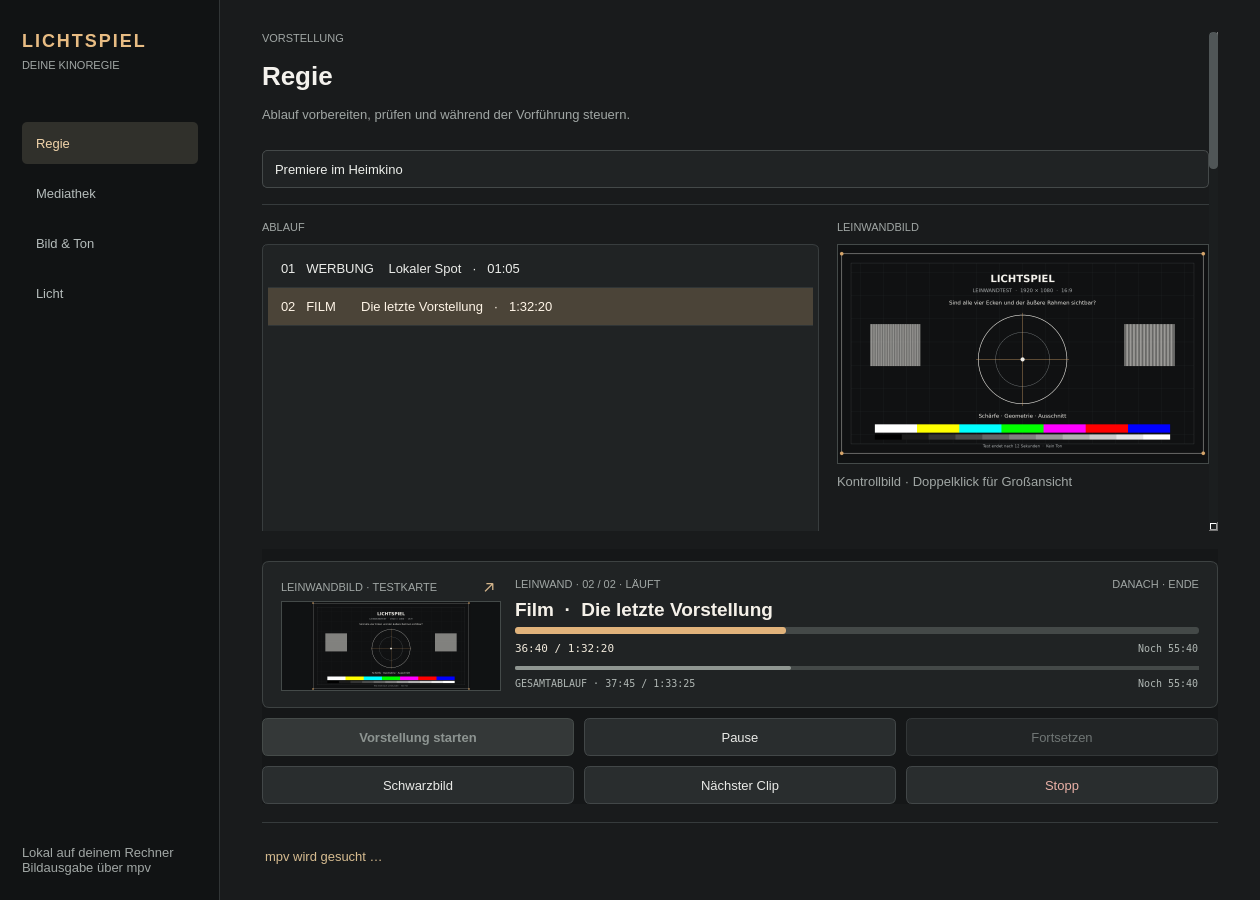
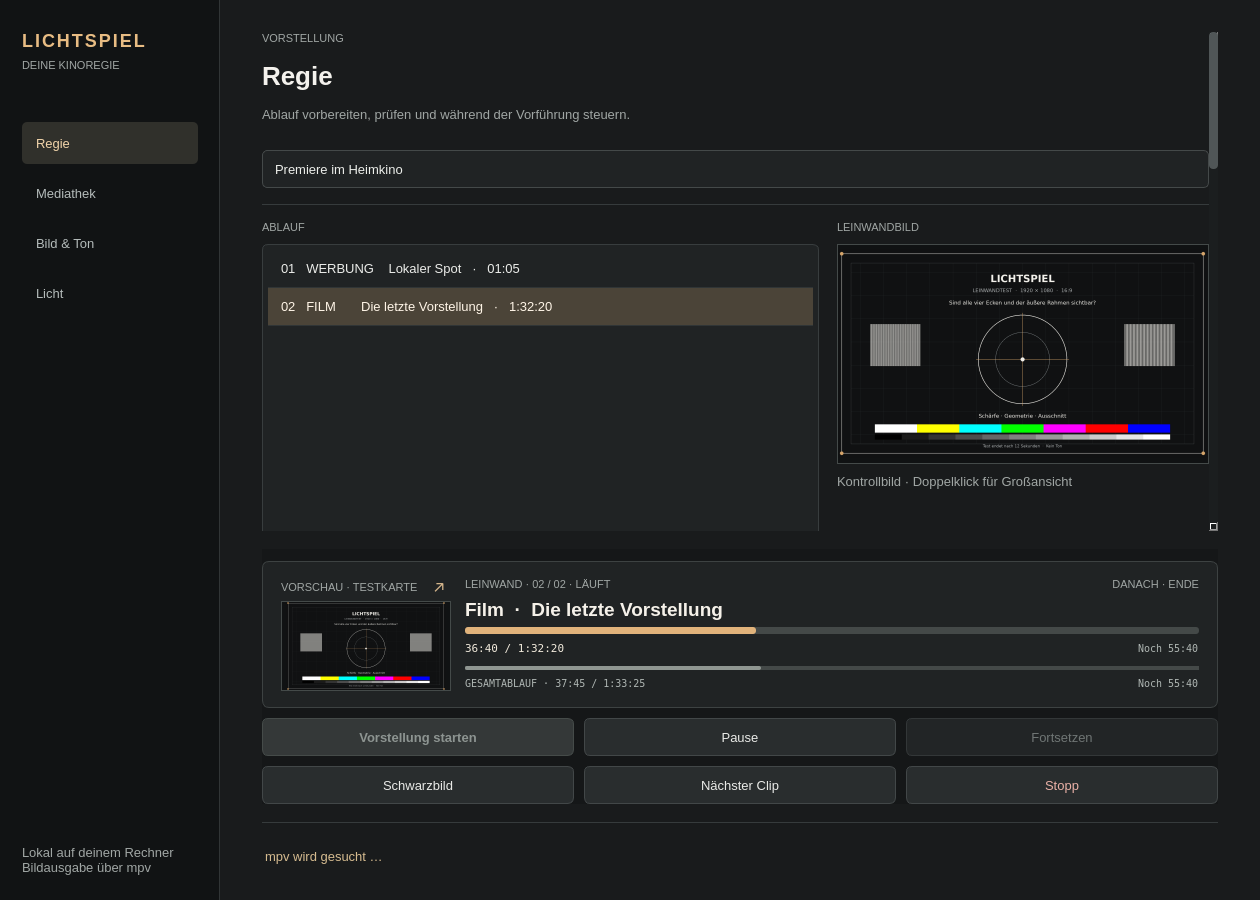
Fit native live preview within Windows minimum window

Changed region(s): [[0.2167, 0.6222, 0.619, 0.7778], [0.4952, 0.7467, 0.5262, 0.7778], [0.2476, 0.6222, 0.2786, 0.6533]]

diff --git a/native/lichtspiel/window.py b/native/lichtspiel/window.py
@@ -353,7 +353,7 @@ class MainWindow(QMainWindow):
         preview_column = QVBoxLayout()
         preview_column.setSpacing(4)
         preview_header = QHBoxLayout()
-        self.preview_caption = label("LEINWANDBILD · VORSCHAU", "eyebrow")
+        self.preview_caption = label("VORSCHAU", "eyebrow")
         self.preview_caption.setWordWrap(False)
         preview_header.addWidget(self.preview_caption)
         preview_header.addStretch()
@@ -364,7 +364,7 @@ class MainWindow(QMainWindow):
         preview_column.addLayout(preview_header)
         self.preview_frame = PreviewFrame()
         self.preview_frame.setFixedHeight(90)
-        self.preview_frame.setMaximumWidth(250)
+        self.preview_frame.setFixedWidth(170)
         self.preview_frame.activated.connect(self._show_preview_dialog)
         preview_column.addWidget(self.preview_frame, 1)
         live.addLayout(preview_column)
@@ -1118,10 +1118,10 @@ class MainWindow(QMainWindow):
             self.preview_timer.start()
             self.preview_frame.show_message("Vorschau wird angefordert …", clear=True)
             self.stage_preview.show_message("Vorschau wird angefordert …", clear=True)
-            self.preview_caption.setText("LEINWANDBILD · VORSCHAU")
+            self.preview_caption.setText("VORSCHAU")
         else:
             self.preview_timer.stop()
-            self.preview_caption.setText("LEINWANDBILD · AUS")
+            self.preview_caption.setText("VORSCHAU · AUS")
             self.preview_frame.show_message("Vorschau ausgeschaltet", clear=True)
             self.stage_preview.show_message("Vorschau ausgeschaltet", clear=True)
             if self.preview_dialog is not None:
@@ -1628,16 +1628,16 @@ class MainWindow(QMainWindow):
             self.stage_preview.show_message(message, clear=True)
             if self.preview_dialog is not None:
                 self.preview_dialog_frame.show_message(message, clear=True)
-            self.preview_caption.setText("LEINWANDBILD · VORSCHAU")
+            self.preview_caption.setText("VORSCHAU")
             if not active:
                 self.preview_last_index = -1
         elif status == "paused":
-            self.preview_caption.setText("LEINWANDBILD · PAUSE")
+            self.preview_caption.setText("VORSCHAU · PAUSE")
         if (
             self.preview_interval_ms == 0
             and self.preview_frame.caption != "Vorschau ausgeschaltet"
         ):
-            self.preview_caption.setText("LEINWANDBILD · AUS")
+            self.preview_caption.setText("VORSCHAU · AUS")
             self.preview_frame.show_message("Vorschau ausgeschaltet", clear=True)
             self.stage_preview.show_message("Vorschau ausgeschaltet", clear=True)
             if self.preview_dialog is not None:
@@ -1755,9 +1755,9 @@ class MainWindow(QMainWindow):
             if self.preview_dialog is not None:
                 self.preview_dialog_frame.show_frame(frame)
             self.preview_caption.setText(
-                "LEINWANDBILD · PAUSE"
+                "VORSCHAU · PAUSE"
                 if self.player.state["status"] == "paused"
-                else "LEINWANDBILD · LIVE"
+                else "VORSCHAU · LIVE"
             )
 
         def failed(error):
@@ -1769,7 +1769,7 @@ class MainWindow(QMainWindow):
         self.jobs.append((future, complete, failed))
 
     def _preview_unavailable(self, message: str):
-        self.preview_caption.setText("LEINWANDBILD · VORSCHAUFEHLER")
+        self.preview_caption.setText("VORSCHAU · FEHLER")
         self.preview_frame.show_message(message, clear=True)
         self.stage_preview.show_message(message, clear=True)
         if self.preview_dialog is not None:
